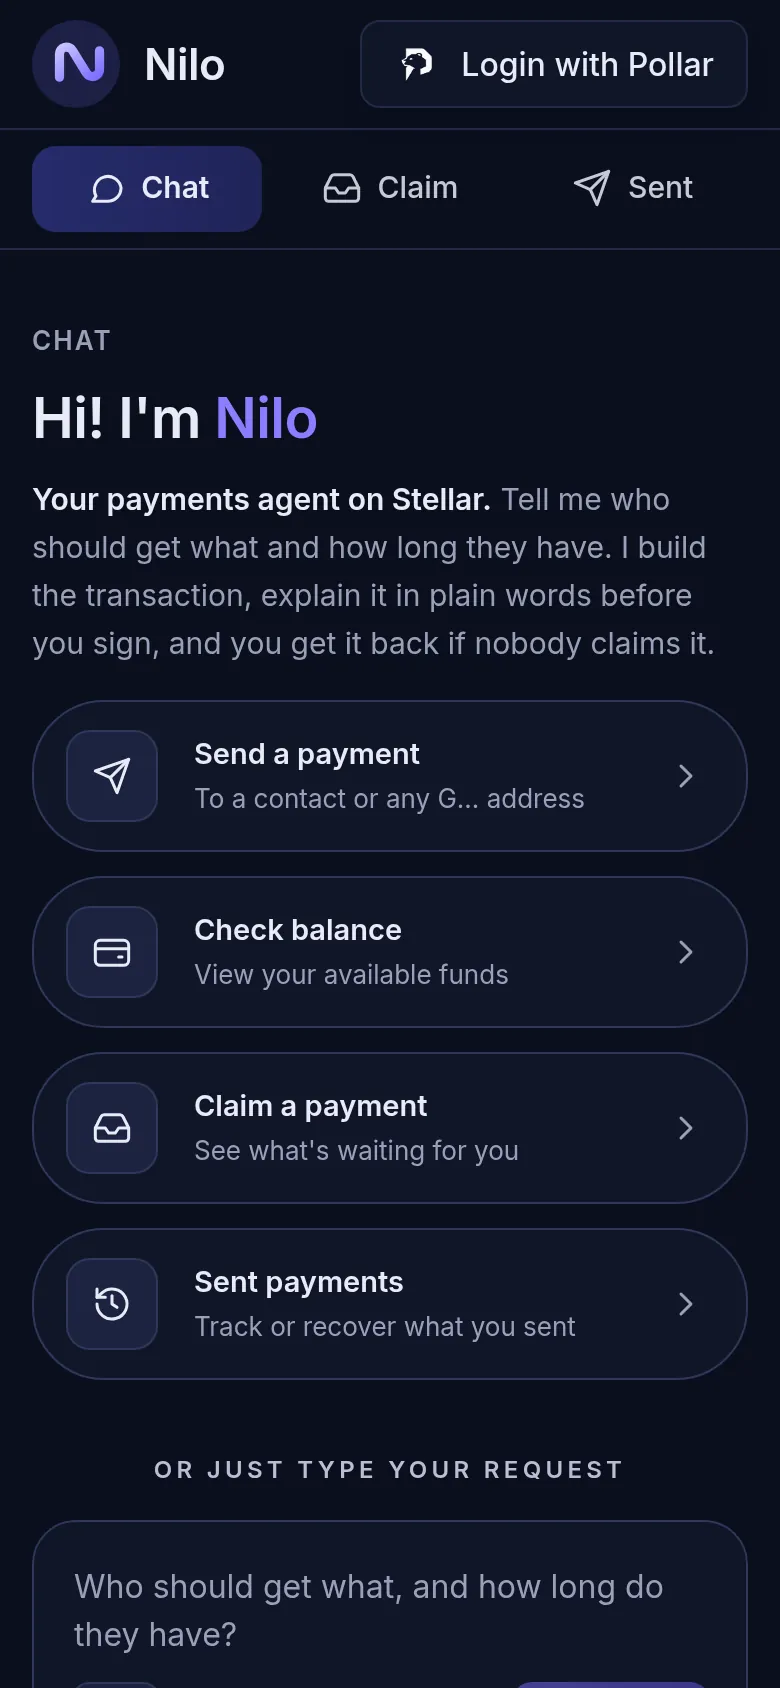
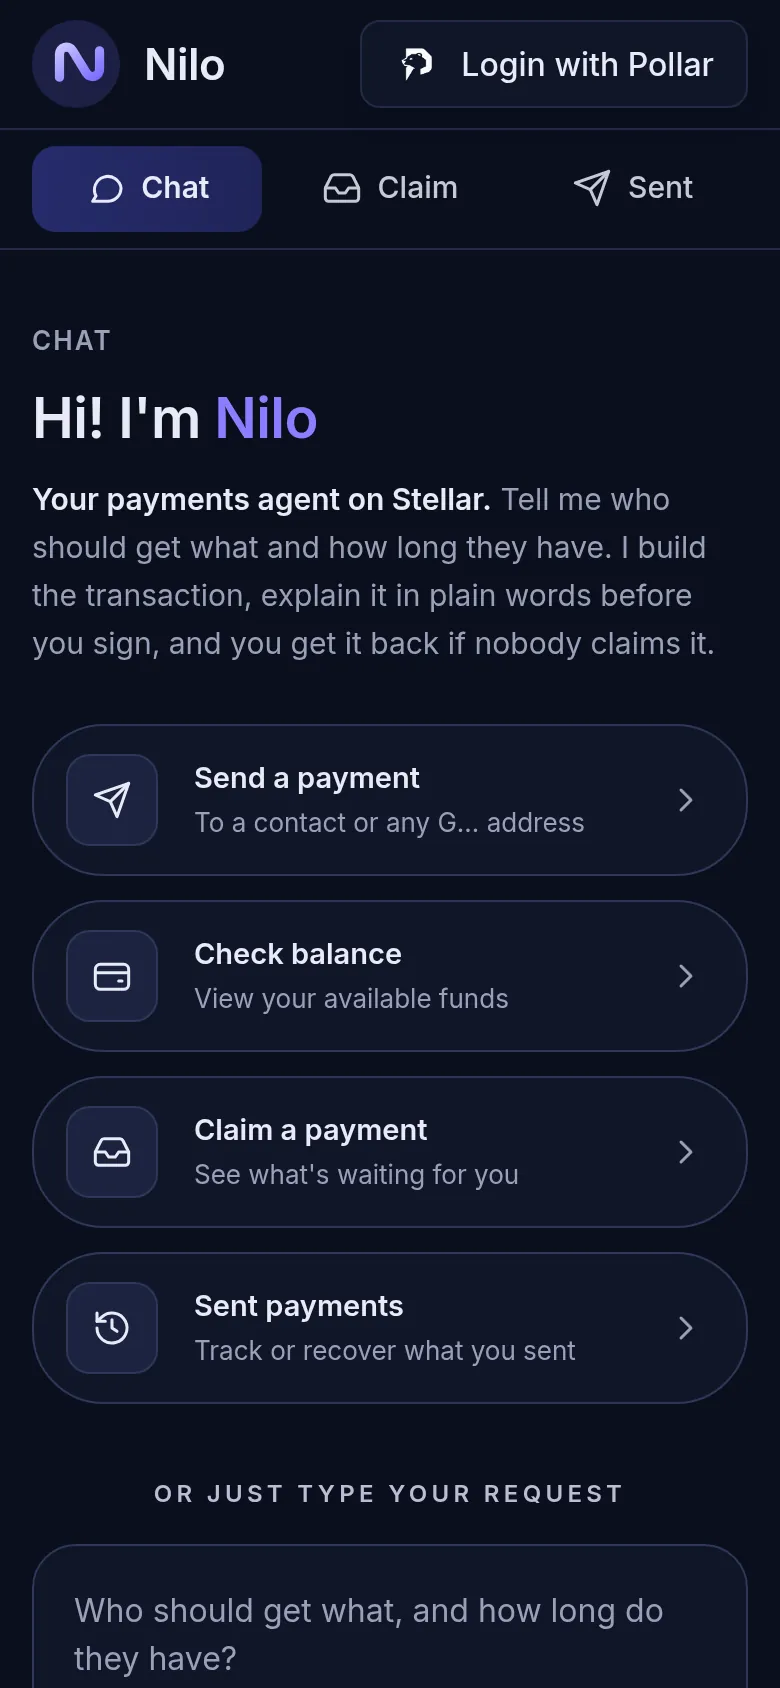
Restyle the chat conversation; drop How it works from Chat
The page head stays during a conversation, with a shorter lead and a
New chat button that starts over. Messages sit in a card, and Nilo's
replies carry its avatar. The How it works strip now shows only on
Claim and Sent. README home and mobile screenshots refreshed.

diff --git a/apps/web/src/pages/Send.tsx b/apps/web/src/pages/Send.tsx
@@ -7,8 +7,7 @@ import {
 } from "@nilo/core";
 import { type FormEvent, type KeyboardEvent, useEffect, useMemo, useRef, useState } from "react";
 import { Link, useLocation, useNavigate } from "react-router-dom";
-import { HowItWorks } from "../components/HowItWorks";
-import { ChevronIcon, CloseIcon, PlusIcon, SendIcon, WalletIcon } from "../components/icons";
+import { ChevronIcon, CloseIcon, PlusIcon, SendIcon, SparkleIcon, WalletIcon } from "../components/icons";
 import { type ChatActionState, QUICK_ACTIONS, useQuickAction } from "../components/Layout";
 import { type Prepared, SignPanel } from "../components/SignPanel";
 import { asSnapshot, config, loadAccount } from "../stellar";
@@ -26,12 +25,6 @@ type ExtractResponse =
   | { status: "error"; message: string };
 
 const EXAMPLE = "Send 50 TESTUSD to maria, she has 2 minutes";
-
-const STEPS = [
-  { title: "Tell me what to send", text: "In plain words, or with the form behind the + button." },
-  { title: "Read before you sign", text: "The explanation is decoded from the transaction, not written by the AI." },
-  { title: "Sign in your wallet", text: "If nobody claims it in time, it comes back to you." },
-];
 
 async function validateFresh(intent: SendIntent, address: string): Promise<ResolvedIntent> {
   const account = await loadAccount(address);
@@ -164,6 +157,14 @@ export function SendPage() {
     };
   }, [pending, address]);
 
+  function reset() {
+    setMessages([]);
+    setPending(null);
+    setSent(null);
+    setDraft("");
+    setMode("chat");
+  }
+
   function cancel() {
     setPending(null);
     setSent(null);
@@ -174,27 +175,36 @@ export function SendPage() {
 
   return (
     <div className="stack chat-page page-wide">
+      <header className="page-head">
+        <span className="eyebrow">Chat</span>
+        <h1>
+          Hi! I'm <span className="accent-word">Nilo</span>
+        </h1>
+        <p className="muted">
+          <strong className="lead">Your payments agent on Stellar.</strong>{" "}
+          {fresh
+            ? "Tell me who should get what and how long they have. I build the transaction, explain it in plain words before you sign, and you get it back if nobody claims it."
+            : "Ask for another payment, check your balance, or start over."}
+        </p>
+        <div className="row">
+          {address && (
+            <>
+              <span className="connected">
+                <WalletIcon width={16} height={16} /> Connected
+              </span>
+              <span className="muted small">as {short(address)}</span>
+            </>
+          )}
+          {!fresh && (
+            <button type="button" className="secondary new-chat" onClick={reset} disabled={busy}>
+              <PlusIcon width={16} height={16} /> New chat
+            </button>
+          )}
+        </div>
+      </header>
+
       {fresh && (
         <>
-          <header className="page-head">
-            <span className="eyebrow">Chat</span>
-            <h1>
-              Hi! I'm <span className="accent-word">Nilo</span>
-            </h1>
-            <p className="muted">
-              <strong className="lead">Your payments agent on Stellar.</strong> Tell me who should get what and how long
-              they have. I build the transaction, explain it in plain words before you sign, and you get it back if
-              nobody claims it.
-            </p>
-            {address && (
-              <div className="row">
-                <span className="connected">
-                  <WalletIcon width={16} height={16} /> Connected
-                </span>
-                <span className="muted small">as {short(address)}</span>
-              </div>
-            )}
-          </header>
           <div className="action-grid">
             {QUICK_ACTIONS.map((a) => (
               <button key={a.title} className="action-card" onClick={() => runQuick(a)}>
@@ -216,14 +226,26 @@ export function SendPage() {
       )}
 
       {messages.length > 0 && (
-        <div className="chat-log">
+        <section className="panel conversation" aria-label="Conversation">
           {messages.map((m, i) => (
-            <div key={i} className={`bubble ${m.role}`}>
-              {m.content}
+            <div key={i} className={`msg ${m.role}`}>
+              {m.role === "assistant" && (
+                <span className="icon-tile violet plain msg-avatar" aria-hidden="true">
+                  <SparkleIcon width={14} height={14} />
+                </span>
+              )}
+              <div className={`bubble ${m.role}`}>{m.content}</div>
             </div>
           ))}
-          {busy && <div className="bubble assistant muted">…</div>}
-        </div>
+          {busy && (
+            <div className="msg assistant">
+              <span className="icon-tile violet plain msg-avatar" aria-hidden="true">
+                <SparkleIcon width={14} height={14} />
+              </span>
+              <div className="bubble assistant muted">…</div>
+            </div>
+          )}
+        </section>
       )}
 
       {mode === "chat" ? (
@@ -268,8 +290,6 @@ export function SendPage() {
           <IntentForm disabled={!!pending} onSubmit={startReview} />
         </div>
       )}
-
-      {fresh && <HowItWorks steps={STEPS} />}
 
       {/* The rail lists contacts on wide screens; this copy shows when it is hidden. */}
       <p className="muted small contacts-inline">

diff --git a/apps/web/src/styles.css b/apps/web/src/styles.css
@@ -182,10 +182,15 @@ a.rail-card:hover { border-color: #2a6a50; }
 }
 .contacts-inline { display: none; text-align: center; }
 
-.chat-log { display: flex; flex-direction: column; gap: 10px; }
-.bubble { padding: 10px 14px; border-radius: 16px; max-width: 85%; white-space: pre-wrap; overflow-wrap: anywhere; }
+.panel.conversation { gap: 14px; padding: 22px; }
+.msg { display: flex; gap: 10px; align-items: flex-end; }
+.msg.user { justify-content: flex-end; }
+.msg-avatar { width: 30px; height: 30px; border-radius: 50%; flex: none; }
+.msg .bubble { max-width: 80%; }
+.new-chat { display: inline-flex; align-items: center; gap: 6px; padding: 6px 12px; font-size: 13px; margin-left: auto; }
+.bubble { padding: 10px 14px; border-radius: 16px; max-width: 85%; white-space: pre-wrap; overflow-wrap: anywhere; line-height: 1.55; }
 .bubble.user { align-self: flex-end; background: var(--accent-grad); color: #fff; border-bottom-right-radius: 6px; }
-.bubble.assistant { align-self: flex-start; background: var(--surface); border: 1px solid var(--border); border-bottom-left-radius: 6px; }
+.bubble.assistant { align-self: flex-start; background: var(--surface-2); border: 1px solid var(--border); border-bottom-left-radius: 6px; }
 
 .form-wrap { display: flex; flex-direction: column; gap: 10px; }
 .form-head { display: flex; align-items: center; justify-content: space-between; }
